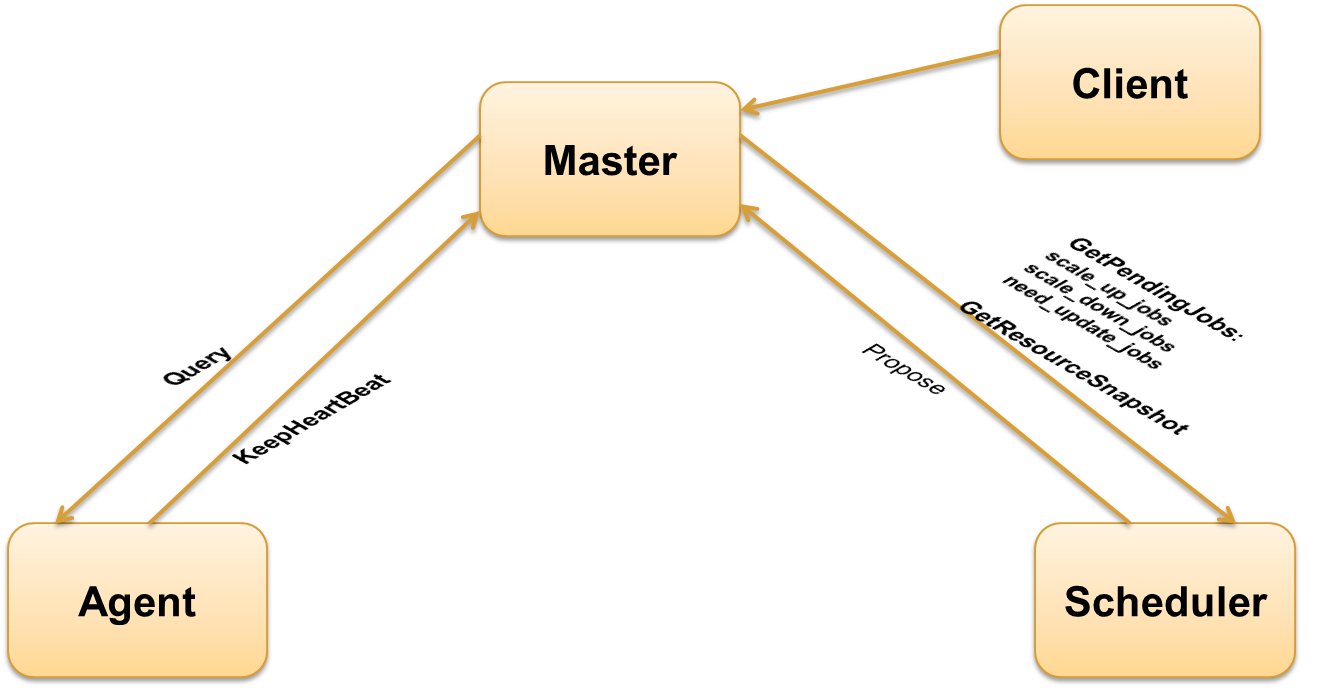
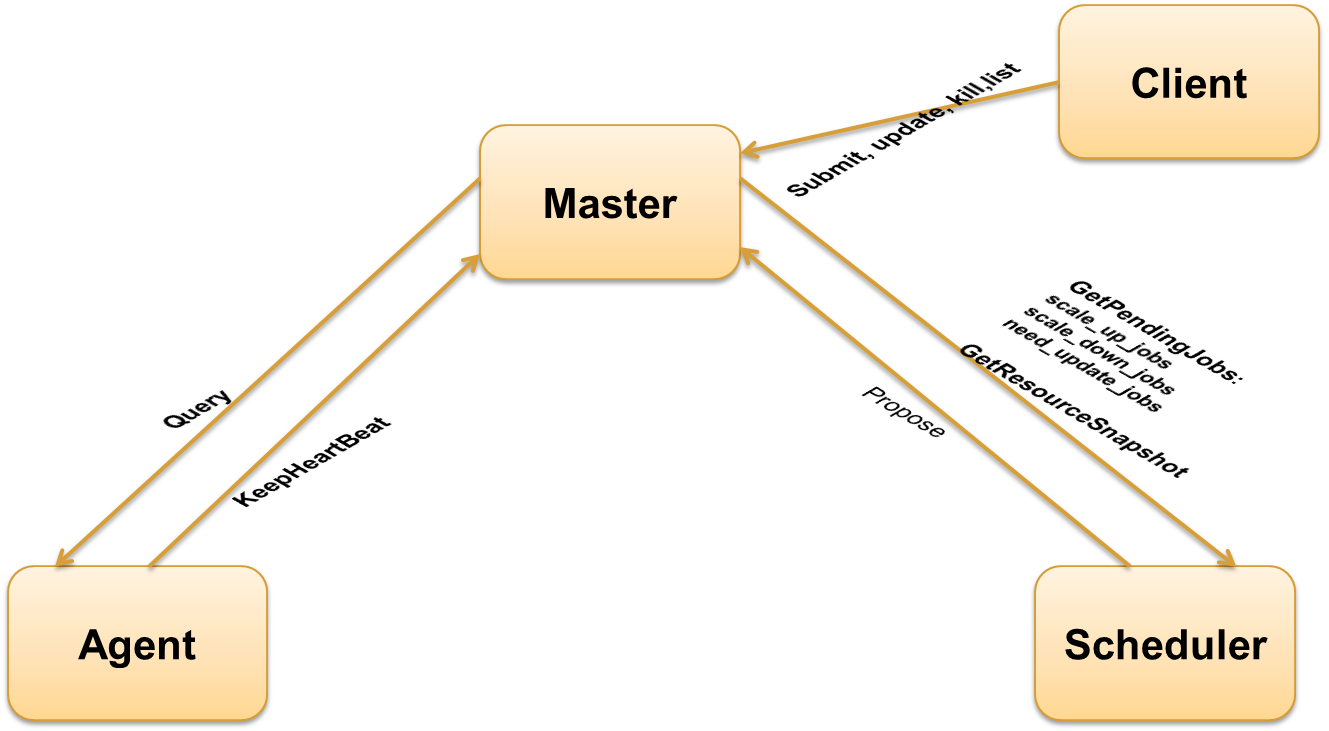
update

diff --git a/doc/galaxy_construe.md b/doc/galaxy_construe.md
@@ -21,7 +21,7 @@ Nexus的作用进行选主、服务发现和元数据存储。
 ##主要模块
 主要模块分为三大块：agent、master、scheduler；agent负责pod管理和task管理，task的真正运是在agent上；master作为整个系统的中心，负责job管理；scheduler负责job优先级计算以及资源分配的可行性计算。他们之间的关系如下：
 
-请插入此图
+![Master,agent和scheduler关系图](https://raw.githubusercontent.com/May2016/galaxy/work/images/MAS.png)
 
 ###Gce
 Gce从属于agent模块，主要负责task的命令行的启动
@@ -32,6 +32,7 @@ Gce从属于agent模块，主要负责task的命令行的启动
 ####具体步骤如下
  - 创建agent_service服务实例，agent_service创建时内部会生成MasterWatcher实例，用于监控master是否发生变化，并获取当前最新的master_stub
  - agent_service初始化
+     ![agent_init流程图](https://raw.githubusercontent.com/May2016/galaxy/work/images/agent_init_flowchart.png)
      1. 运行环境初始化与隔离
         - 根据flag配置文件对resource_capacity_赋值:
         ```
